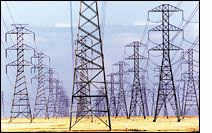
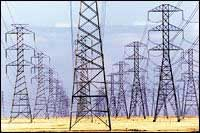
resized images

diff --git a/src/htdocs/learn/reading.php b/src/htdocs/learn/reading.php
@@ -43,7 +43,7 @@ if (!isset($TEMPLATE)) {
 <a name="storms"><h2>Geomagnetic Storms</h2></a>
 
 <figure class="right">
-  <img src="/images/solarwind-interaction-magnetosphere410.jpeg"
+  <img src="/images/solarwind-interaction-magnetosphere410.jpg"
       width="342" height="250" alt="Geomagnetic storm model." />
 </figure>
 
@@ -71,7 +71,7 @@ if (!isset($TEMPLATE)) {
 <a name="fields"><h2>Geomagnetism and Magnetic Fields</h2></a>
 
 <figure class="right">
-  <img src="/images/faq/Q5.jpg" width="278" height="266"
+  <img src="/images/faq/Q5.jpg" width="267" height="266"
       alt="Model of Earth's magnetic field">
 </figure>
 
@@ -141,7 +141,7 @@ if (!isset($TEMPLATE)) {
 <a name="magnetosphere"><h2>Magnetosphere and Ionosphere</h2></a>
 
 <figure class="right">
-  <img src="/images/magnetosphere.jpeg" width="400" height="317"
+  <img src="/images/magnetosphere.jpg" width="400" height="317"
       alt="Geomagnetic storm model." />
 </figure>
 
@@ -194,7 +194,7 @@ if (!isset($TEMPLATE)) {
 <a name="space"><h2>Space Weather Impacts on Earth</h2></a>
 
 <figure class="right">
-  <img src="/images/faq/Q15.jpg" width="212" height="133" alt="Power lines." />
+  <img src="/images/faq/Q15.jpg" width="200" height="133" alt="Power lines." />
 </figure>
 
 <ul class="referencelist">
